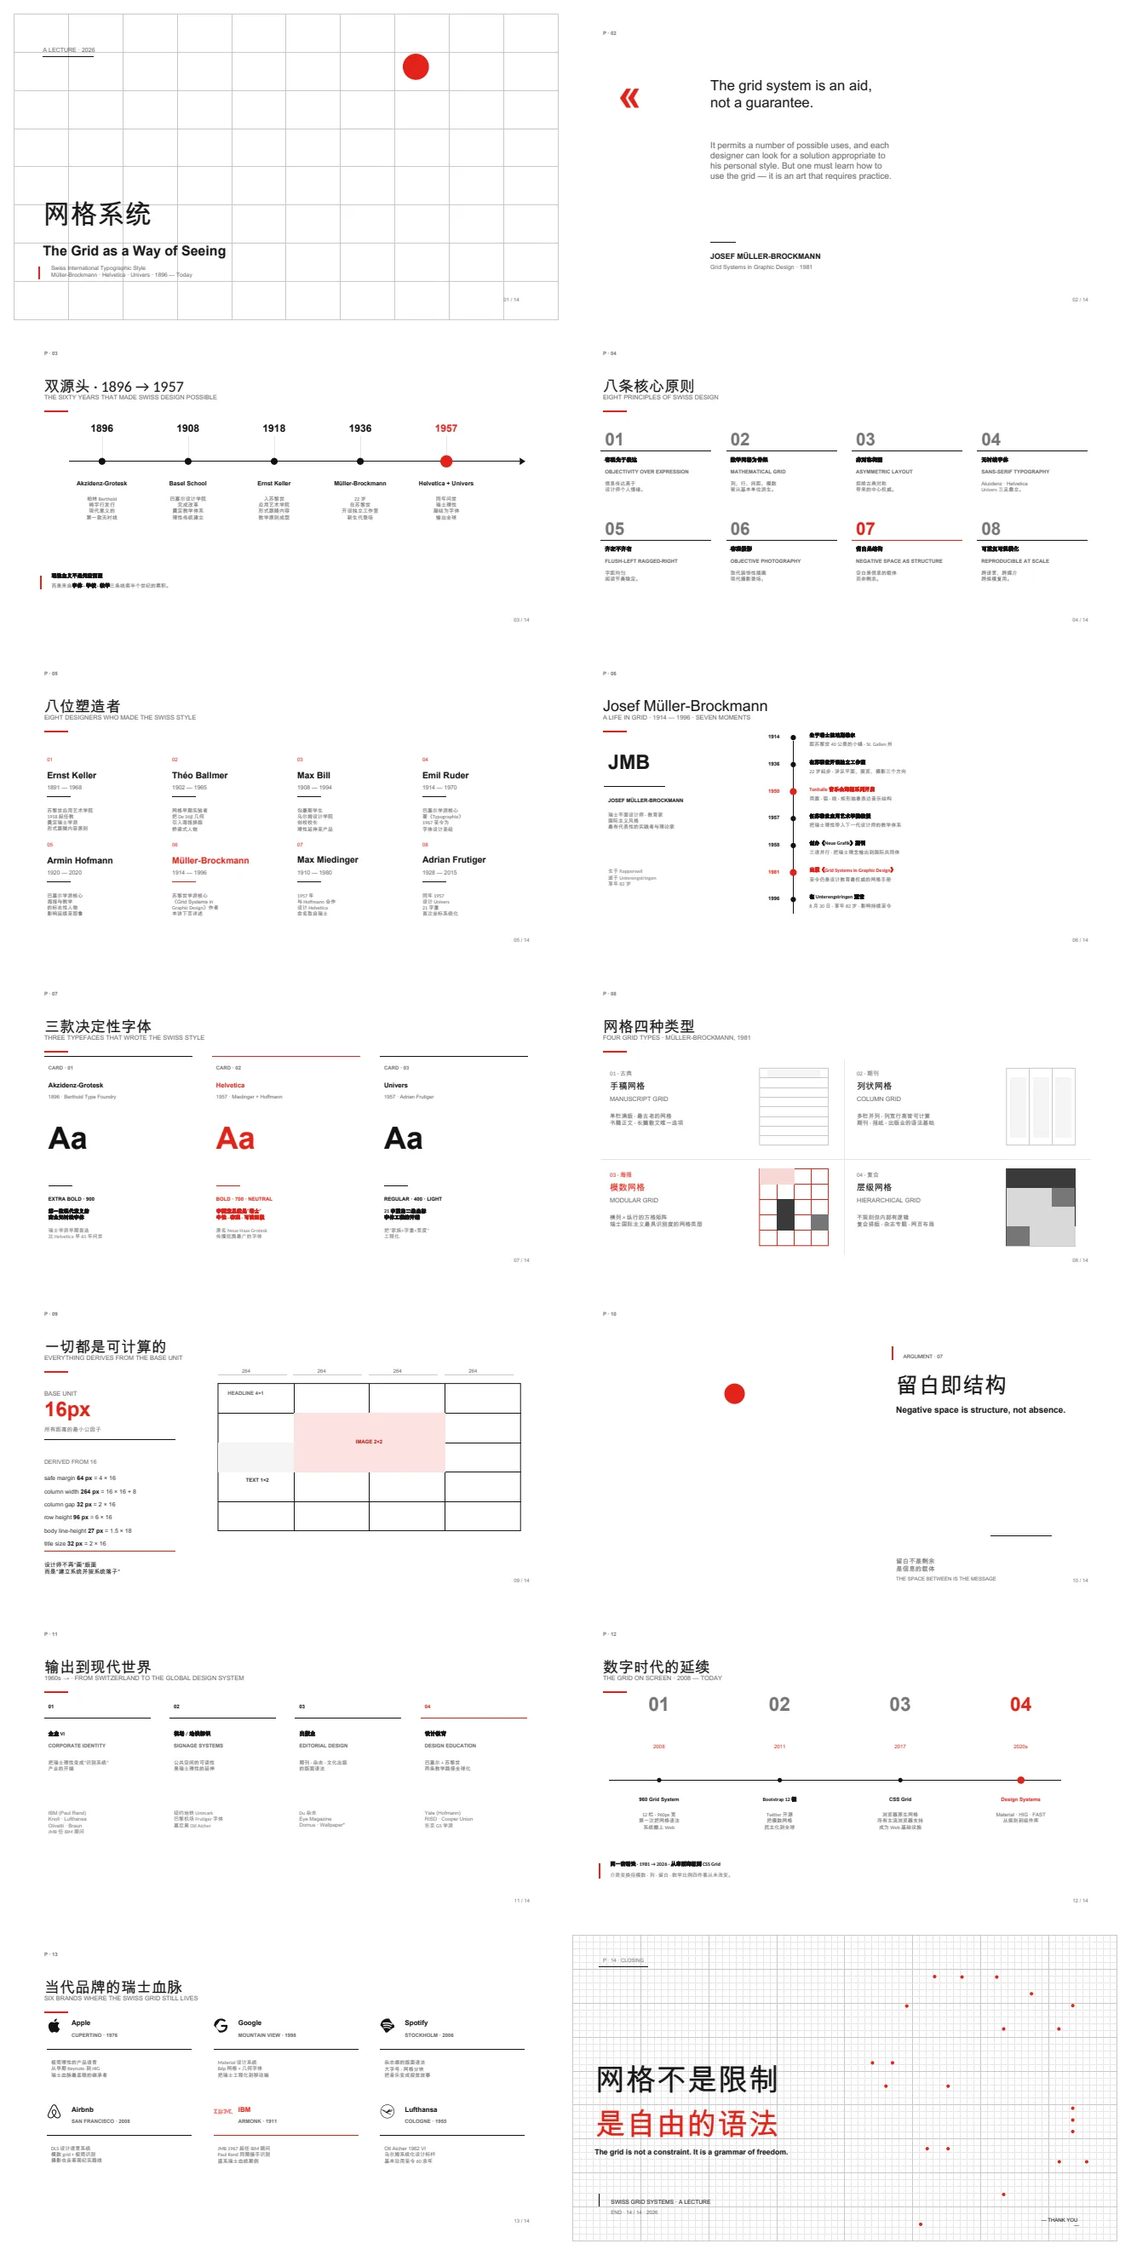
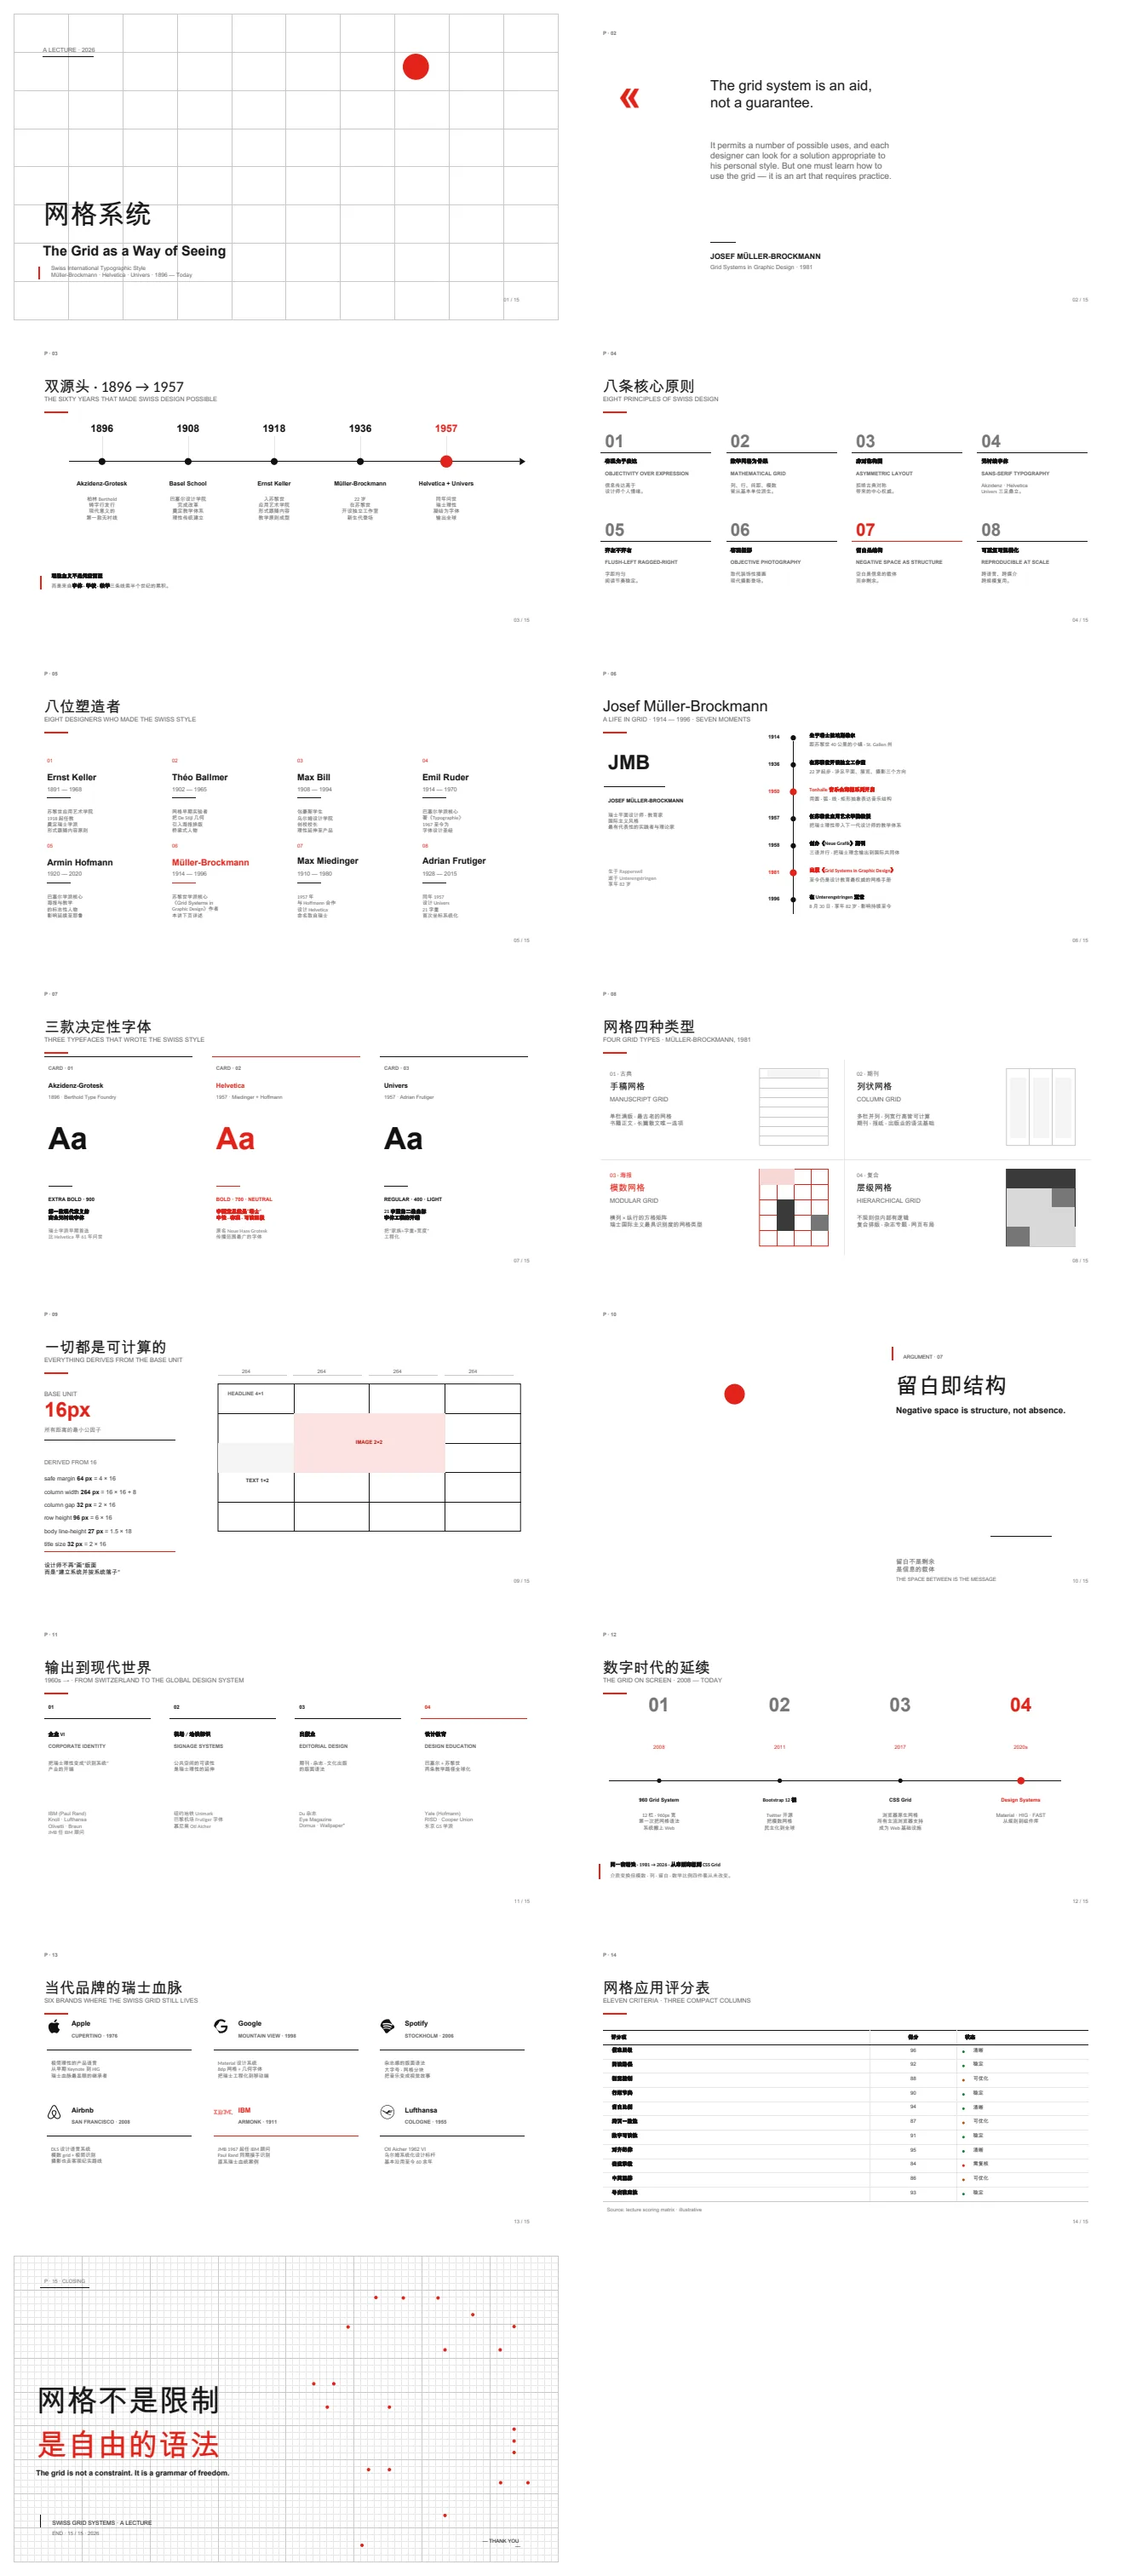
chore: Update deck examples

diff --git a/assets/examples/swiss-grid/brief.md b/assets/examples/swiss-grid/brief.md
@@ -3,13 +3,13 @@
 DeckKit: `swiss-grid`
 Showcase case: `swiss-grid.golden-lecture`
 Readiness: `production`
-Slides: 14
-Patch ops: 2030
+Slides: 15
+Patch ops: 2248
 Title: 网格系统
 
 ## Best For
 
-design education, typography lecture, visual design history, editorial systems, Swiss-style presentation
+design education, typography lecture, visual design history, editorial systems, minimal comparison tables, Swiss-style presentation
 
 ## Default For
 
